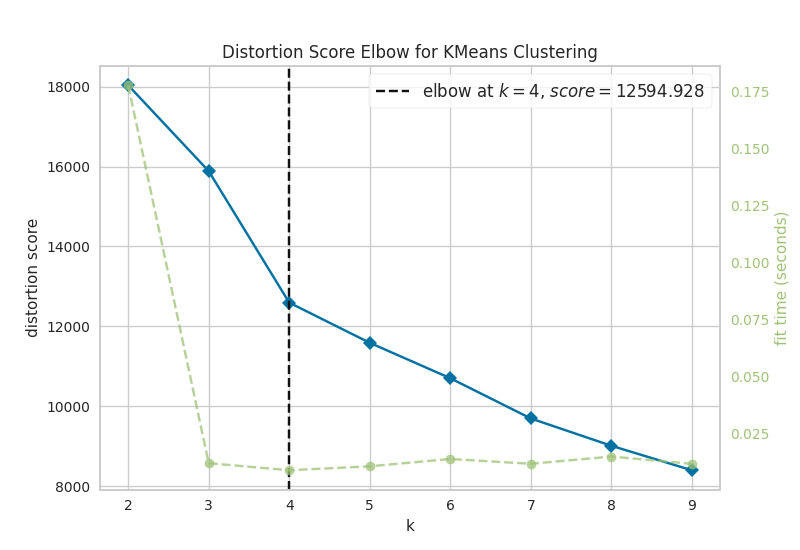
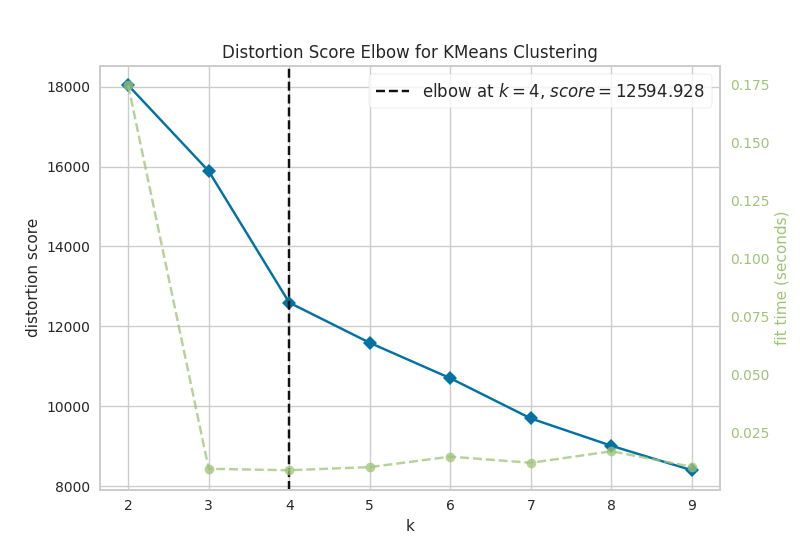
for segmentation process data is splitted being ready for churn process

diff --git a/src/segmentation_process.py b/src/segmentation_process.py
@@ -65,11 +65,11 @@ print(rfm.describe([0.25, 0.5, 0.75, 0.97]).T)
 
 """
 Outlier detection for RFM values:
-              count          mean           std      min       25%      50%       75%         97%        max
-customer_id  5878.0  15315.313542   1715.572666  12346.0  13833.25  15314.5  16797.75    18110.69    18287.0
-recency      5878.0    201.436883    209.454032      1.0      26.0     96.0     380.0       667.0      739.0
-frequency    5878.0      6.279347     12.979594      1.0       1.0      3.0       7.0        28.0      398.0
-monetary     5878.0   2869.961142  14002.181211     2.95  330.6825   835.97  2180.865  12880.4929  567769.68
+              count         mean           std      min      25%      50%      75%        97%        max
+customer_id  5249.0  15326.75843   1710.402354  12346.0  13856.0  15317.0  16808.0   18111.56    18287.0
+recency      5249.0   204.127262    171.487933      0.0     49.0    161.0    318.0      576.0      638.0
+frequency    5249.0       5.6767     11.282189      1.0      1.0      3.0      6.0       25.0      303.0
+monetary     5249.0  2538.698632  11676.992068      2.9   307.53   754.49  1994.35  11346.162  440248.41
 
 """
 # -------------------------------- Feature Engineering --------------------------------
@@ -174,7 +174,7 @@ visualizer.fit(rfm_scaled_df) # Hazırladığım scaled veri
 # Docker in görselleri gösterebileceği bir ekranı olmadığı için görseli kaydettim:
 visualizer.show(outpath="analyze_img/elbow_method.png") 
 
-# Görseli incelediğimde Elbow yöntemiyle optimum K sayısının 5 olduğunu gördüm.
+# Görseli incelediğimde Elbow yöntemiyle optimum K sayısının 4 olduğunu gördüm.
 # -----------------------------------------
 # 2) SILHOUETTE SCORE:
 # Sadece Elbow yöntemiyle optimal K değerini belirlemek yeterli olmayabilir, bu yüzden farklı K değerleri için Silhouette skorlarını da hesapladım.
@@ -188,16 +188,17 @@ for k in range(2, 8): # Farklı K değerleri için Silhouette skorlarını hesap
     print(f"K={k} için Silhouette Skoru: {score:.4f}")
 
 """
-K=2 için Silhouette Skoru: 0.3727
-K=3 için Silhouette Skoru: 0.2800
-K=4 için Silhouette Skoru: 0.2601
-K=5 için Silhouette Skoru: 0.2434
-K=6 için Silhouette Skoru: 0.2470
-K=7 için Silhouette Skoru: 0.2574
+--- Silhouette Scores ---
+K=2 için Silhouette Skoru: 0.3659
+K=3 için Silhouette Skoru: 0.2942
+K=4 için Silhouette Skoru: 0.2650
+K=5 için Silhouette Skoru: 0.2336
+K=6 için Silhouette Skoru: 0.2341
+K=7 için Silhouette Skoru: 0.2347
 
 Matematiksel Olarak En İyisi K=2 değeri çıktı. Küme sayısı arttıkça skor düzenli olarak düşüyor. 
 Matematiksel olarak veri setim en net iki büyük gruba (Örn: Aktifler ve Pasifler) ayrılıyor.
-Ancak iş mantığı açısından K = 5 değerini seçmeyi tercih ediyorum. Çünkü K=5 olduğunda segmentlerin karakteristik
+Ancak iş mantığı açısından K = 4 değerini seçmeyi tercih ediyorum. Çünkü K=4 olduğunda segmentlerin karakteristik
 özellikleri birbirinden daha net ayrılıyor ve bu da pazarlama stratejileri oluştururken daha anlamlı segmentler oluşturmamı sağlıyor.
 
 """
@@ -209,11 +210,11 @@ print(rfm_final_analysis_test.groupby('cluster_2')[['recency','monetary']].media
 """
            recency  monetary
 cluster_2                   
-0            383.0   295.505
-1             40.0  1774.390
+0             76.0   1713.89
+1            311.0    291.09
 # Bu şunu ifade ediyor: Veriyi en kaba haliyle ikiye böldüğümüzde 
-Cluster 1: Yakın zamanda gelen ve çok harcayanlar
-Cluster 0: Çok uzun zamandır gelmeyen ve az harcayanlar
+Cluster 0: Yakın zamanda gelen ve çok harcayanlar
+Cluster 1: Çok uzun zamandır gelmeyen ve az harcayanlar
 """
 # -------------------------------- K-MEANS MODELING   --------------------------------
 kmeans = KMeans(
@@ -229,7 +230,7 @@ rfm_final_analysis["cluster"] = kmeans.fit_predict(rfm_scaled_df)  # Scaled veri
 # rfm_scaled_df: Adaletli mesafe hesabı için sayıları eşitlediğimiz tablo (Eğitim burada yapılır)
 # rfm_final_analysis: Gerçek TL ve gün değerlerinin olduğu, insanların okuyabildiği orijinal tablo (Analiz burada yapılır)
 
-# Scaler ve KMeans modelini kaydet 
+# Scaler ve KMeans modelini kaydetme 
 joblib.dump(kmeans, "models/kmeans_model.pkl")
 joblib.dump(scaler, "models/kmeans_scaler.pkl")
 print("\nKMeans ve Scaler modelleri 'models/' klasörüne kaydedildi.")
@@ -251,11 +252,10 @@ print(segment_analysis)
         recency        frequency        monetary               unique_products        avg_unit_price        customer_id
            mean median      mean median     mean  median count            mean median           mean median       count
 cluster                                                                                                                
-0         370.0  386.0       1.5    1.0    495.8   292.9   535            13.0   10.0            6.7    6.0         535
-1         157.1   88.0       3.9    3.0   1127.7   928.4  2251            57.5   48.0            3.2    3.0        2251
-2         103.7   70.0       1.2    1.0    369.9   244.6   662            21.5   16.0            2.5    2.4         662
-3         523.3  512.0       1.3    1.0    392.8   246.8   929            23.5   18.0            2.6    2.6         929
-4          50.0   23.0      14.0   11.0   5458.3  4127.9  1501           183.3  156.0            3.2    3.0        1501
+0         309.3  301.5       1.3    1.0    469.7   250.8   622            13.4   10.5            6.2    5.4         622
+1          63.6   37.0      12.7   10.0   4895.2  3685.5  1341           162.8  137.0            3.2    3.0        1341
+2         184.6  160.0       3.5    3.0   1036.2   824.5  2026            51.7   43.0            3.3    3.1        2026
+3         333.2  326.0       1.2    1.0    343.7   233.2  1260            23.1   18.0            2.4    2.5        1260
 
 # Burada da yine orijinal veri üzerinden segmentlere ayırdım veriyi çünkü sonuçları buna göre yorumalamak gerkiyor. 
 """
@@ -275,7 +275,6 @@ loyal_cluster = by_recency[1]
 # At Risk → daha yüksek frequency (bir zamanlar aktifti)
 # Lost    → daha düşük frequency (zaten hiç aktif olmadı)
 remaining = by_recency[2:]
-
 
 # YENİ — avg_unit_price'a göre ayır: pahalı ürün alıcısı → At Risk (değeri yüksek)
 avg_price_by_cluster = rfm_final_analysis.groupby('cluster')['avg_unit_price'].mean()
@@ -300,6 +299,16 @@ print("\nMapping Doğrulama:")
 print(rfm_final_analysis.groupby('segment')['recency'].median().sort_values())
 print(rfm_final_analysis[['customer_id','segment','recency','frequency','monetary']].head(10))
  
+print("\nCluster bazlı detay (tüm metrikler):")
+print(rfm_final_analysis.groupby('segment').agg(
+    recency_min   = ('recency',        'min'),
+    recency_max   = ('recency',        'max'),
+    recency_med   = ('recency',        'median'),
+    freq_med      = ('frequency',      'median'),
+    monetary_med  = ('monetary',       'median'),
+    avg_price_med = ('avg_unit_price', 'median'),
+    count         = ('customer_id',    'count')
+).round(1))
  
 # -------------------------------- DATA VISUALIZATION --------------------------------
 # 1) SCATTER PLOT
@@ -383,12 +392,12 @@ print("Loadings tablosu sonuçları:\n",loadings)
 """
 Loadings tablosu sonuçları:
                        PC1       PC2
-recency         -0.357972  0.129373
-frequency        0.485775  0.056945
-monetary         0.480992  0.090911
-unique_products  0.441103 -0.064039
-avg_unit_price  -0.013972  0.983001
-active_lifespan  0.457993  0.036909
+recency         -0.362658  0.012260
+frequency        0.487620  0.035729
+monetary         0.480506  0.054105
+unique_products  0.434712 -0.097467
+avg_unit_price  -0.011929  0.992494
+active_lifespan  0.459024  0.033193
 
 # PC1 bileşeni; Eğer bir müşterinin PC1 skoru yüksekse; o müşteri çok para bırakmış (Monetary), çok sık gelmiş (Frequency), çok çeşit ürün almış (Unique_products) ve en son gelişi üzerinden çok az zaman geçmiş (Recency - negatif olduğu için ters orantılı).
 # PC2 bileşeni; PC2 ise neredeyse tamamen (0.98 loading ile) 'Average Unit Price' üzerinden tanımlanıyor. Bu şunu gösteriyor: Bir müşterinin pahalı ürün tercih etmesi, onun alışveriş sıklığı veya toplam harcamasından bağımsız bir boyut. Bu yüzden modelim,
@@ -401,6 +410,6 @@ save_cols = [
     'avg_order_value', 'active_lifespan', 'cluster', 'segment'
 ]
 rfm_final_analysis[save_cols].to_csv("data/rfm_with_clusters.csv", index=False)
-print("\nSegmentasyon sonuçları kaydedildi: data/rfm_with_clusters2.csv")
+print("\nSegmentasyon sonuçları kaydedildi: data/rfm_with_clusters.csv")
 
 # docker compose exec analysis_app python src/segmentation_process.py
